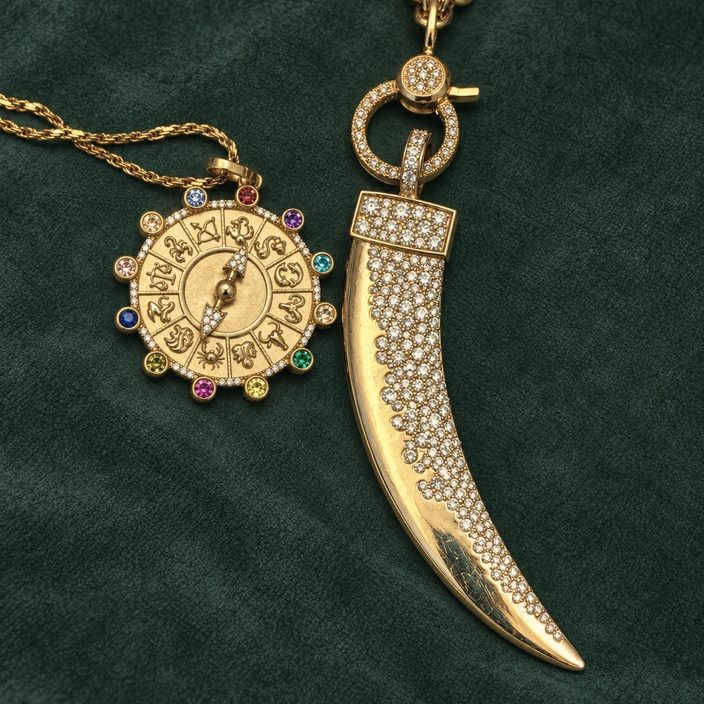
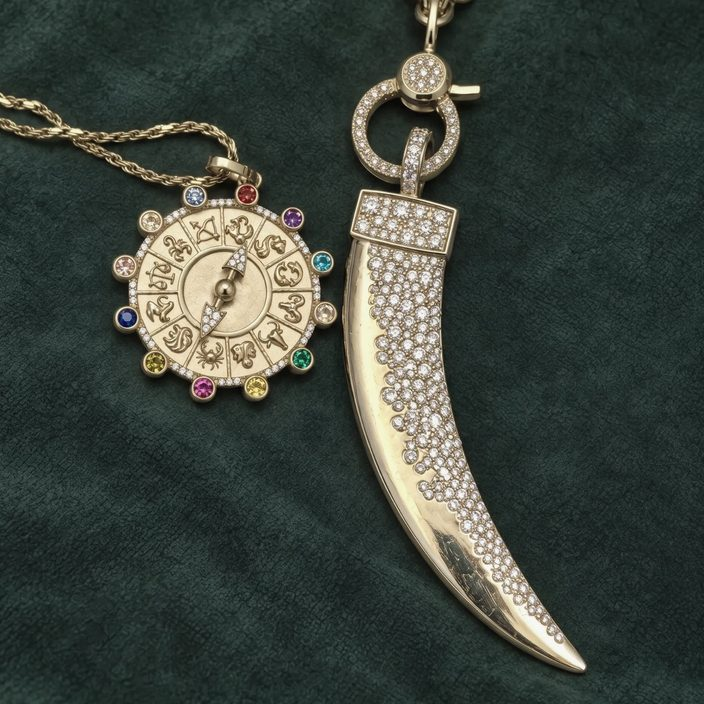
S2: Sally's ten pieces around her compass photo, her subject and preview
The compass photo from the high-res file, graded neutral (less yellow, as Sally asked);
the Marquise ring tile redone from the site's new photo with the cleaned-up diamond.

Claude-Session: https://claude.ai/code/session_01VrrBjuRuC9xvjL9TyhzgCC

diff --git a/templates/camp-s2-black-friday.html b/templates/camp-s2-black-friday.html
@@ -2,8 +2,8 @@
   Campaigns · by date · Sale template · S2 (Black Friday) · Fri Nov 27, 10:00
   Card: S2 · Campaign · Black Friday · Fri Nov 27, 10:00
   Status: Ready
-  Subject: I picked these with you in mind ✨
-  Preheader: Our Black Friday sale is here: 20% off with code HOLIDAY20, until December 1.
+  Subject: Sally picked these with you in mind (+ 20% off for Black Friday!) 🎁
+  Preheader: Our Black Friday Fine Jewelry Event is happening now—see what I pulled for you! ✨
   From: Sally at 7th & Hill <hello@7thandhilljewelry.ca> · replies to hello@7thandhilljewelry.ca
   Logic: Audience: Vault list plus SALT contacts who opened or clicked T1 (same as K3 and S1).
   Note: Sale series: three letters, one look each (private note, the sale, the last word). For New Year, Valentine's,
@@ -61,7 +61,7 @@
 </head>
 <body id="body" style="margin:0; padding:0; background-color:#F3F1EC;">
   <!-- PREHEADER: the line shown after the subject in the inbox -->
-  <div style="display:none; font-size:1px; line-height:1px; max-height:0; max-width:0; opacity:0; overflow:hidden; mso-hide:all;">Our Black Friday sale is here: 20% off with code HOLIDAY20, until December 1.</div>
+  <div style="display:none; font-size:1px; line-height:1px; max-height:0; max-width:0; opacity:0; overflow:hidden; mso-hide:all;">Our Black Friday Fine Jewelry Event is happening now—see what I pulled for you! ✨</div>
   <div style="display:none; font-size:1px; line-height:1px; max-height:0; max-width:0; opacity:0; overflow:hidden; mso-hide:all;">&#8199;&#847;&#8199;&#847;&#8199;&#847;&#8199;&#847;&#8199;&#847;&#8199;&#847;&#8199;&#847;&#8199;&#847;&#8199;&#847;&#8199;&#847;&#8199;&#847;&#8199;&#847;&#8199;&#847;&#8199;&#847;&#8199;&#847;&#8199;&#847;&#8199;&#847;&#8199;&#847;&#8199;&#847;&#8199;&#847;&#8199;&#847;&#8199;&#847;&#8199;&#847;&#8199;&#847;&#8199;&#847;&#8199;&#847;&#8199;&#847;&#8199;&#847;&#8199;&#847;&#8199;&#847;&#8199;&#847;&#8199;&#847;&#8199;&#847;&#8199;&#847;&#8199;&#847;&#8199;&#847;&#8199;&#847;&#8199;&#847;&#8199;&#847;&#8199;&#847;&#8199;&#847;&#8199;&#847;&#8199;&#847;&#8199;&#847;&#8199;&#847;&#8199;&#847;&#8199;&#847;&#8199;&#847;&#8199;&#847;&#8199;&#847;&#8199;&#847;&#8199;&#847;&#8199;&#847;&#8199;&#847;&#8199;&#847;&#8199;&#847;&#8199;&#847;&#8199;&#847;&#8199;&#847;&#8199;&#847;&#8199;&#847;&#8199;&#847;&#8199;&#847;&#8199;&#847;&#8199;&#847;&#8199;&#847;&#8199;&#847;&#8199;&#847;&#8199;&#847;&#8199;&#847;</div>
 
   <div role="article" aria-roledescription="email" aria-label="Our Black Friday sale" lang="en" style="background-color:#F3F1EC;">
@@ -101,8 +101,8 @@
           <!-- ═══════════ BLOCK: HEADING ═══════════ -->
           <tr>
             <td class="px" align="center" style="padding:34px 40px 22px;">
-              <p class="sans" style="margin:0 0 6px; font-family:Inter, 'Helvetica Neue', Helvetica, Arial, sans-serif; font-size:11px; line-height:16px; font-weight:400; letter-spacing:3.5px; text-transform:uppercase; color:#9C7E4A;">Pieces to keep</p>
-              <h1 class="display h1" style="margin:0 0 0px; font-family:Cormorant, 'Cormorant Garamond', Georgia, 'Times New Roman', serif; font-size:28px; line-height:31px; font-weight:400; color:#2E2A26;">A few to start&nbsp;with</h1>
+              <p class="sans" style="margin:0 0 6px; font-family:Inter, 'Helvetica Neue', Helvetica, Arial, sans-serif; font-size:11px; line-height:16px; font-weight:400; letter-spacing:3.5px; text-transform:uppercase; color:#9C7E4A;">Sally’s picks</p>
+              <h1 class="display h1" style="margin:0 0 0px; font-family:Cormorant, 'Cormorant Garamond', Georgia, 'Times New Roman', serif; font-size:28px; line-height:31px; font-weight:400; color:#2E2A26;">A few I pulled for&nbsp;you</h1>
             </td>
           </tr>
 
@@ -117,17 +117,46 @@
                     <td width="66.67%" valign="top" style="padding:4px;"><a href="https://www.7thandhilljewelry.ca/collections/talismans-medallions" target="_blank" style="display:block; text-decoration:none;"><img src="../assets/images/feature-compass.jpg" width="352" height="352" alt="A zodiac compass pendant and a pavé horn pendant on green velvet" style="display:block; width:100%; max-width:352px; height:auto; border:0; background-color:#E9EDF1; color:#8A857C; font-family:Inter, 'Helvetica Neue', Helvetica, Arial, sans-serif; font-size:11px;"></a></td>
                     <td width="33.33%" valign="top" style="padding:0;">
                       <table role="presentation" width="100%" cellpadding="0" cellspacing="0" border="0">
-                        <tr><td style="padding:4px;"><a href="https://www.7thandhilljewelry.ca/collections/rings" target="_blank" style="display:block; text-decoration:none;"><img src="../assets/images/anim-rings.gif" width="172" height="172" alt="Rings" style="display:block; width:100%; max-width:172px; height:auto; border:0; background-color:#E9EDF1; color:#8A857C; font-family:Inter, 'Helvetica Neue', Helvetica, Arial, sans-serif; font-size:11px;"></a></td></tr>
-                        <tr><td style="padding:4px;"><a href="https://www.7thandhilljewelry.ca/products/14k-gold-and-diamond-lovers-tarot-pendant" target="_blank" style="display:block; text-decoration:none;"><img src="../assets/images/product-01.jpg" width="172" height="172" alt="Lovers Tarot Pendant" style="display:block; width:100%; max-width:172px; height:auto; border:0; background-color:#E9EDF1; color:#8A857C; font-family:Inter, 'Helvetica Neue', Helvetica, Arial, sans-serif; font-size:11px;"></a></td></tr>
+                        <tr><td style="padding:4px;"><a href="https://www.7thandhilljewelry.ca/products/14k-gold-la-vie-est-belle-medallion-charm" target="_blank" style="display:block; text-decoration:none;"><img src="../assets/images/site-C101.jpg" width="172" height="172" alt=""Life Is Beautiful" Medallion" style="display:block; width:100%; max-width:172px; height:auto; border:0; background-color:#E9EDF1; color:#8A857C; font-family:Inter, 'Helvetica Neue', Helvetica, Arial, sans-serif; font-size:11px;"></a></td></tr>
+                        <tr><td style="padding:4px;"><a href="https://www.7thandhilljewelry.ca/products/14k-gold-the-good-thing-locket" target="_blank" style="display:block; text-decoration:none;"><img src="../assets/images/site-C115.jpg" width="172" height="172" alt=""The Good Thing" Locket Talisman" style="display:block; width:100%; max-width:172px; height:auto; border:0; background-color:#E9EDF1; color:#8A857C; font-family:Inter, 'Helvetica Neue', Helvetica, Arial, sans-serif; font-size:11px;"></a></td></tr>
                       </table>
                     </td>
                 </tr>
               </table>
               <table role="presentation" width="100%" cellpadding="0" cellspacing="0" border="0">
                 <tr>
-                    <td width="33.33%" valign="top" style="padding:4px;"><a href="https://www.7thandhilljewelry.ca/products/14k-gold-pinky-promise-necklace" target="_blank" style="display:block; text-decoration:none;"><img src="../assets/images/product-13.jpg" width="172" height="172" alt="Pinky Promise Necklace" style="display:block; width:100%; max-width:172px; height:auto; border:0; background-color:#E9EDF1; color:#8A857C; font-family:Inter, 'Helvetica Neue', Helvetica, Arial, sans-serif; font-size:11px;"></a></td>
-                    <td width="33.33%" valign="top" style="padding:4px;"><a href="https://www.7thandhilljewelry.ca/products/14k-custom-made-pear-shaped-lab-diamond-studs" target="_blank" style="display:block; text-decoration:none;"><img src="../assets/images/product-16.jpg" width="172" height="172" alt="Pear Lab Diamond Studs" style="display:block; width:100%; max-width:172px; height:auto; border:0; background-color:#E9EDF1; color:#8A857C; font-family:Inter, 'Helvetica Neue', Helvetica, Arial, sans-serif; font-size:11px;"></a></td>
-                    <td width="33.33%" valign="top" style="padding:4px;"><a href="https://www.7thandhilljewelry.ca/collections/talismans-medallions" target="_blank" style="display:block; text-decoration:none;"><img src="../assets/images/anim-pendants.gif" width="172" height="172" alt="Pendants" style="display:block; width:100%; max-width:172px; height:auto; border:0; background-color:#E9EDF1; color:#8A857C; font-family:Inter, 'Helvetica Neue', Helvetica, Arial, sans-serif; font-size:11px;"></a></td>
+                    <td width="33.33%" valign="top" style="padding:4px;"><a href="https://www.7thandhilljewelry.ca/products/the-unexpected-journey-compass-charm" target="_blank" style="display:block; text-decoration:none;"><img src="../assets/images/site-C071.jpg" width="172" height="172" alt="Unexpected Journey Compass Charm" style="display:block; width:100%; max-width:172px; height:auto; border:0; background-color:#E9EDF1; color:#8A857C; font-family:Inter, 'Helvetica Neue', Helvetica, Arial, sans-serif; font-size:11px;"></a></td>
+                    <td width="33.33%" valign="top" style="padding:4px;"><a href="https://www.7thandhilljewelry.ca/products/the-radiant-clover-medallion-charm" target="_blank" style="display:block; text-decoration:none;"><img src="../assets/images/site-C074.jpg" width="172" height="172" alt="Radiant Clover Medallion Charm" style="display:block; width:100%; max-width:172px; height:auto; border:0; background-color:#E9EDF1; color:#8A857C; font-family:Inter, 'Helvetica Neue', Helvetica, Arial, sans-serif; font-size:11px;"></a></td>
+                    <td width="33.33%" valign="top" style="padding:4px;"><a href="https://www.7thandhilljewelry.ca/products/14k-gold-and-diamond-lovers-tarot-pendant" target="_blank" style="display:block; text-decoration:none;"><img src="../assets/images/site-C120.jpg" width="172" height="172" alt="Diamond Lovers Tarot Pendant" style="display:block; width:100%; max-width:172px; height:auto; border:0; background-color:#E9EDF1; color:#8A857C; font-family:Inter, 'Helvetica Neue', Helvetica, Arial, sans-serif; font-size:11px;"></a></td>
+                </tr>
+              </table>
+            </td>
+          </tr>
+
+          <!-- ═══════════ BLOCK: RINGS AND STUDS · one large piece, two smaller beside it ═══════════ -->
+          <tr>
+            <td class="pxs" align="center" style="padding:0 30px 30px;">
+              <table role="presentation" width="100%" cellpadding="0" cellspacing="0" border="0">
+                <tr><td class="mz-small" width="36%" valign="top" style="padding:0 7px 0 0px;"><table role="presentation" width="100%" cellpadding="0" cellspacing="0" border="0"><tr><td valign="top" align="center" style="padding:0px 0 0;"><a href="https://www.7thandhilljewelry.ca/products/14k-gold-deco-ballerina-oval-lab-diamond-ring" target="_blank" style="display:block; text-decoration:none;"><img src="../assets/images/site-R030.jpg" width="176" height="176" alt="Deco Ballerina Oval Lab Diamond Ring" style="display:block; width:100%; max-width:176px; height:auto; border:0; background-color:#E9EDF1; color:#8A857C; font-family:Inter, 'Helvetica Neue', Helvetica, Arial, sans-serif; font-size:11px;"></a><p class="sans tname" style="margin:8px 0 0; font-family:Inter, 'Helvetica Neue', Helvetica, Arial, sans-serif; font-size:13px; line-height:18px; font-weight:400; color:#2E2A26;"><a href="https://www.7thandhilljewelry.ca/products/14k-gold-deco-ballerina-oval-lab-diamond-ring" target="_blank" style="color:#2E2A26; text-decoration:none;">Deco Ballerina Oval Lab Diamond&nbsp;Ring</a></p></td></tr><tr><td valign="top" align="center" style="padding:14px 0 0;"><a href="https://www.7thandhilljewelry.ca/products/14k-custom-made-pear-shaped-lab-diamond-studs" target="_blank" style="display:block; text-decoration:none;"><img src="../assets/images/site-E015.jpg" width="176" height="176" alt="Custom Made Pear Shaped Lab Diamond Studs" style="display:block; width:100%; max-width:176px; height:auto; border:0; background-color:#E9EDF1; color:#8A857C; font-family:Inter, 'Helvetica Neue', Helvetica, Arial, sans-serif; font-size:11px;"></a><p class="sans tname" style="margin:8px 0 0; font-family:Inter, 'Helvetica Neue', Helvetica, Arial, sans-serif; font-size:13px; line-height:18px; font-weight:400; color:#2E2A26;"><a href="https://www.7thandhilljewelry.ca/products/14k-custom-made-pear-shaped-lab-diamond-studs" target="_blank" style="color:#2E2A26; text-decoration:none;">Custom Made Pear Shaped Lab Diamond&nbsp;Studs</a></p></td></tr></table></td><td class="mz-big" width="64%" valign="top" align="center" style="padding:0 0px 0 7px;"><a href="https://www.7thandhilljewelry.ca/products/the-marquise-art-deco-enamel-statement-ring" target="_blank" style="display:block; text-decoration:none;"><img src="../assets/images/site-R011.jpg" width="344" height="344" alt="Marquise Art Deco Enamel Statement Ring" style="display:block; width:100%; max-width:344px; height:auto; border:0; background-color:#E9EDF1; color:#8A857C; font-family:Inter, 'Helvetica Neue', Helvetica, Arial, sans-serif; font-size:11px;"></a><p class="sans tname" style="margin:12px 0 0; font-family:Inter, 'Helvetica Neue', Helvetica, Arial, sans-serif; font-size:15px; line-height:20px; font-weight:400; color:#2E2A26;"><a href="https://www.7thandhilljewelry.ca/products/the-marquise-art-deco-enamel-statement-ring" target="_blank" style="color:#2E2A26; text-decoration:none;">Marquise Art Deco Enamel Statement&nbsp;Ring</a></p><p class="sans t-sm" style="margin:10px 0 0; font-family:Inter, 'Helvetica Neue', Helvetica, Arial, sans-serif; font-size:10px; line-height:14px; letter-spacing:2.5px; text-transform:uppercase;"><a href="https://www.7thandhilljewelry.ca/products/the-marquise-art-deco-enamel-statement-ring" target="_blank" style="color:#2E2A26; text-decoration:none; border-bottom:1px solid #9C7E4A; padding-bottom:2px;">View piece</a></p></td></tr>
+              </table>
+            </td>
+          </tr>
+
+          <!-- ═══════════ BLOCK: TWO MORE · grid of pieces (numbers in blocks/catalog.md) ═══════════ -->
+          <tr>
+            <td class="pxs" align="center" style="padding:0 26px 14px;">
+              <table role="presentation" width="100%" cellpadding="0" cellspacing="0" border="0">
+                <tr>
+                    <td width="50%" valign="top" align="center" style="padding:4px 7px 20px;">
+                      <a href="https://www.7thandhilljewelry.ca/products/14k-gold-custom-enamel-and-diamond-celestial-evil-eye-pendant-copy" target="_blank" style="display:block; text-decoration:none;"><img src="../assets/images/site-C114.jpg" width="262" height="262" alt="Custom Enamel Art Deco Initial Pendant" style="display:block; width:100%; max-width:262px; height:auto; border:0; background-color:#E9EDF1; color:#8A857C; font-family:Inter, 'Helvetica Neue', Helvetica, Arial, sans-serif; font-size:11px;"></a>
+                      <p class="sans tname" style="margin:10px 0 0; font-family:Inter, 'Helvetica Neue', Helvetica, Arial, sans-serif; font-size:13px; line-height:18px; font-weight:400; color:#2E2A26;"><a href="https://www.7thandhilljewelry.ca/products/14k-gold-custom-enamel-and-diamond-celestial-evil-eye-pendant-copy" target="_blank" style="color:#2E2A26; text-decoration:none;">Custom Enamel Art Deco Initial&nbsp;Pendant</a></p>
+                      
+                    </td>
+                    <td width="50%" valign="top" align="center" style="padding:4px 7px 20px;">
+                      <a href="https://www.7thandhilljewelry.ca/products/the-14k-gold-scattered-diamond-oval-necklace" target="_blank" style="display:block; text-decoration:none;"><img src="../assets/images/site-N002.jpg" width="262" height="262" alt="Scattered Diamond Oval Necklace" style="display:block; width:100%; max-width:262px; height:auto; border:0; background-color:#E9EDF1; color:#8A857C; font-family:Inter, 'Helvetica Neue', Helvetica, Arial, sans-serif; font-size:11px;"></a>
+                      <p class="sans tname" style="margin:10px 0 0; font-family:Inter, 'Helvetica Neue', Helvetica, Arial, sans-serif; font-size:13px; line-height:18px; font-weight:400; color:#2E2A26;"><a href="https://www.7thandhilljewelry.ca/products/the-14k-gold-scattered-diamond-oval-necklace" target="_blank" style="color:#2E2A26; text-decoration:none;">Scattered Diamond Oval&nbsp;Necklace</a></p>
+                      
+                    </td>
                 </tr>
               </table>
             </td>

diff --git a/scripts/photos.py b/scripts/photos.py
@@ -51,7 +51,7 @@ SHOTS = {
     "feature-rings-table.jpg":   ("rings-table-bag.jpg",             "feature", (0, 0.20, 1, 0.95)),
     "feature-necklaces-books.jpg": ("necklaces-books.jpg",           "feature", None),
     "hero-pendants-books.jpg":   ("necklaces-books.jpg",             "hero",    (0, 0.10, 1, 0.80)),
-    "feature-compass.jpg":       ("compass-horn-velvet.jpg",         "feature", (0, 0.06, 1, 0.86)),
+    "feature-compass.jpg":       ("compass-horn-velvet-hires.jpg",   "feature", (0, 0.06, 1, 0.86)),
     # small squares of worn pieces, same size as product tiles (tile)
     "tile-talisman-locket.jpg":  ("locket-closeup.jpg",              "tile",    (0.10, 0.44, 0.90, 0.90)),
     # photos inside a block, no seal (story)
@@ -73,11 +73,19 @@ PACKSHOTS = {
 
 # Photos kept bright and true, as on the site (Sally: the fireplace photo looked dark in the letters)
 LIGHT = {"hero-sally-fireplace.jpg", "sally-avatar.png", "hero-charms-on-books.jpg"}
+# Gold kept cool and a little muted, not warmed (Sally: the compass and horn looked too yellow)
+NEUTRAL = {"feature-compass.jpg"}
 
 
-def grade(im: Image.Image, light=False) -> Image.Image:
+def grade(im: Image.Image, light=False, neutral=False) -> Image.Image:
     """Warm, slightly muted, matte: deep green-tinted shadows, soft warm highlights.
-    light=True keeps the photo's own brightness and only warms it a touch."""
+    light=True keeps the photo's own brightness and only warms it a touch;
+    neutral=True only mutes the colour a little and lifts the blacks, with no warm tint."""
+    if neutral:
+        a = np.asarray(im.convert("RGB")).astype(np.float32) / 255.0
+        lum = (0.299 * a[..., 0] + 0.587 * a[..., 1] + 0.114 * a[..., 2])[..., None]
+        a = 0.03 + (lum + (a - lum) * 0.80) * 0.94
+        return Image.fromarray((np.clip(a, 0, 1) * 255).astype(np.uint8))
     if light:
         a = np.asarray(im.convert("RGB")).astype(np.float32) / 255.0
         a = a * np.array([1.01, 1.0, 0.985])
@@ -178,7 +186,7 @@ def main():
             out.save(OUT / name, quality=82, optimize=True, progressive=True)
             print(f"{name:26} {out.size[0]}x{out.size[1]}")
             continue
-        im = grade(crop(Image.open(PHOTOS / src).convert("RGB"), box), light=name in LIGHT)
+        im = grade(crop(Image.open(PHOTOS / src).convert("RGB"), box), light=name in LIGHT, neutral=name in NEUTRAL)
         if kind == "avatar":  # round portrait with a cream ring, transparent corners
             size, ring, k = 168, 6, 4  # shown at 56px: three times sharper; circles drawn 4x and scaled down
             big = Image.new("RGBA", (size * k, size * k), (0, 0, 0, 0))

diff --git a/scripts/compose.py b/scripts/compose.py
@@ -1240,7 +1240,8 @@ doc("camp-s1-vault-early-access.html", **SALE, code="S1", when="Wed Nov 25, 18:0
 # S2 · the sale: model photo, the offer in the dark band, a collage with moving cells
 doc("camp-s2-black-friday.html", **SALE, code="S2", when="Fri Nov 27, 10:00",
     card="Campaign · Black Friday · Fri Nov 27, 10:00", title="Our Black Friday sale",
-    subject="I picked these with you in mind ✨", preheader="Our Black Friday sale is here: 20% off with code HOLIDAY20, until December 1.",
+    subject="Sally picked these with you in mind (+ 20% off for Black Friday!) 🎁",
+    preheader="Our Black Friday Fine Jewelry Event is happening now—see what I pulled for you! ✨",
     logic=["Audience: Vault list plus SALT contacts who opened or clicked T1 (same as K3 and S1)."],
     body=hero("hero-water-lilies.jpg", "A woman in a pale blue dress lying by a lily pond, wearing a heart charm necklace, a medallion and a gold bracelet", DISCOUNT)
     + night("OFFER · swap for each sale",
@@ -1249,8 +1250,11 @@ doc("camp-s2-black-friday.html", **SALE, code="S2", when="Fri Nov 27, 10:00",
         + p("20% off fine jewelry, until midnight, December 1.", mb=0, color=NDIM)
         + code_box(dark=True),
         pad="34px 56px 40px")
-    + heading("Pieces to keep", "A few to start with", pad="34px 40px 22px")
-    + collage("PIECES", ("rings", 1), ("feature-compass.jpg", "A zodiac compass pendant and a pavé horn pendant on green velvet", SITE + "/collections/talismans-medallions"), (13, 16, "pendants"), feature_side="left")
+    # Sally's ten pieces (Nov 26): charms around her compass photo, then the rings and studs, then the last two with names
+    + heading("Sally’s picks", "A few I pulled for you", pad="34px 40px 22px")
+    + collage("PIECES", ("C101", "C115"), ("feature-compass.jpg", "A zodiac compass pendant and a pavé horn pendant on green velvet", SITE + "/collections/talismans-medallions"), ("C071", "C074", "C120"), feature_side="left")
+    + mosaic("RINGS AND STUDS", "R011", ["R030", "E015"], side="right", pad="0 30px 30px")
+    + grid("TWO MORE", ["C114", "N002"], cols=2)
     + cta("Step inside", DISCOUNT + "?redirect=/collections")
     + trust_strip())
 
